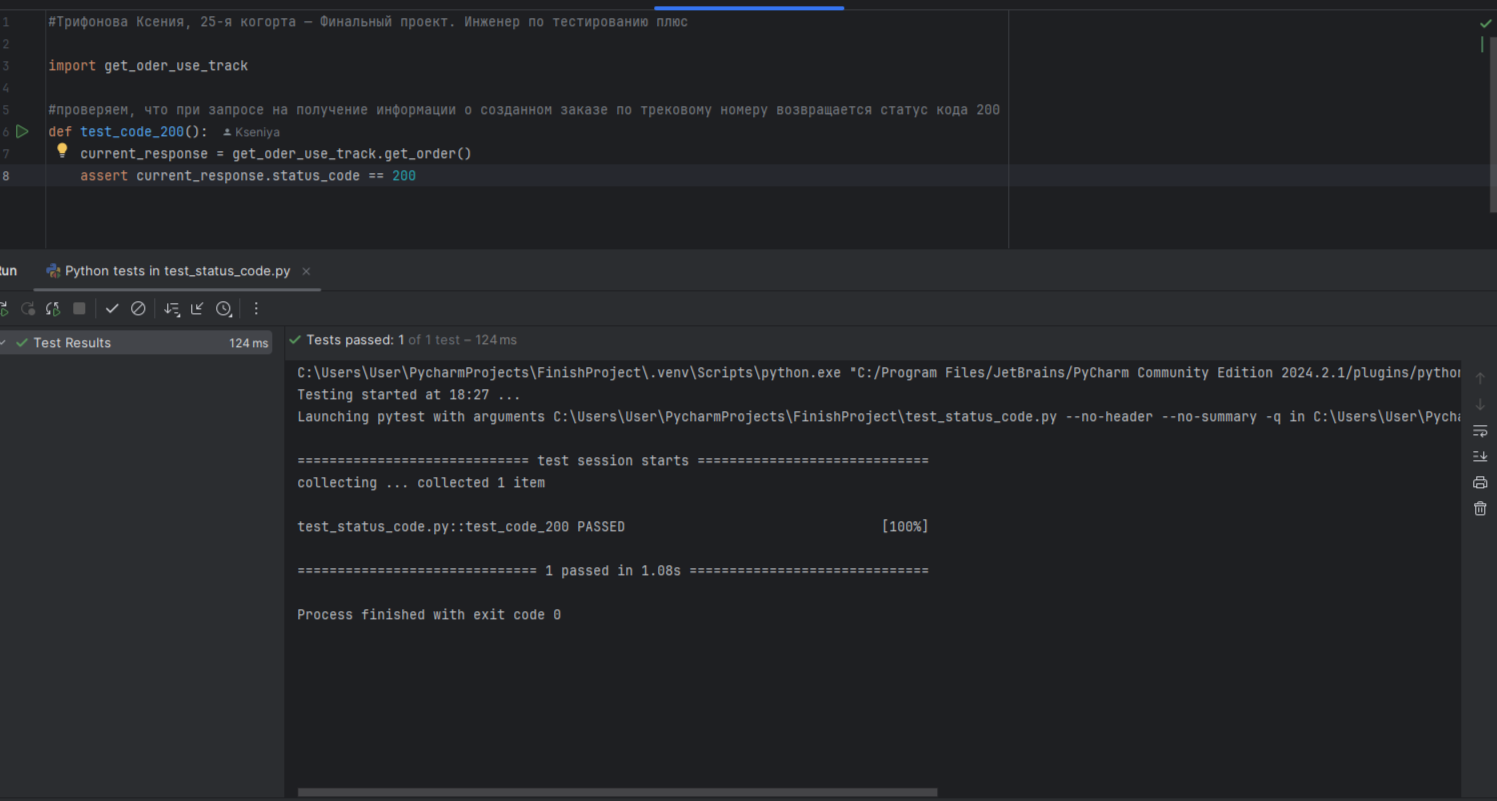
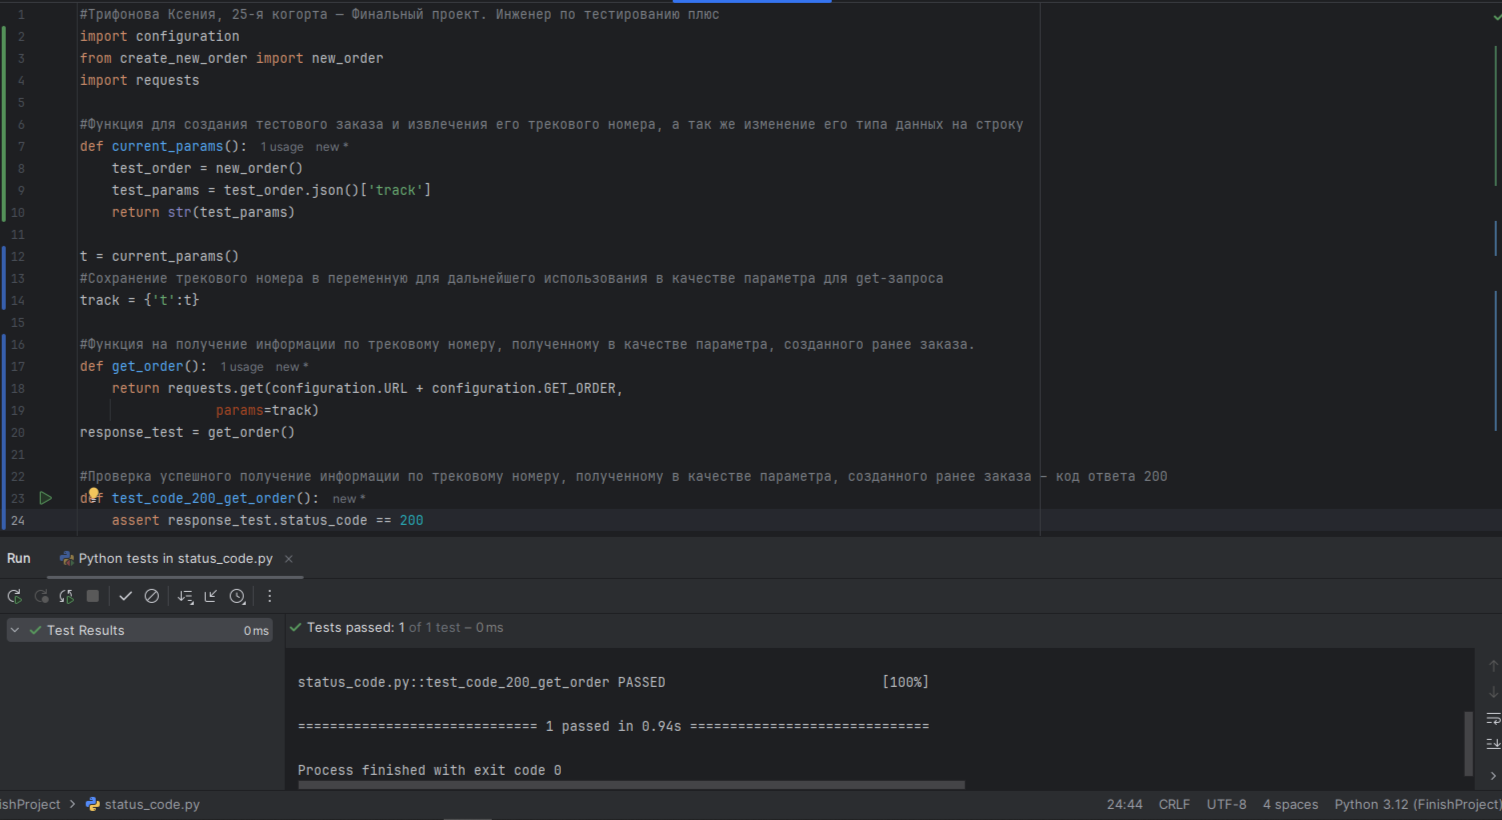
Внесены изменения согласно комментариям ревьюера

diff --git a/status_code.py b/status_code.py
@@ -1,0 +1,24 @@
+#Трифонова Ксения, 25-я когорта — Финальный проект. Инженер по тестированию плюс
+import configuration
+from create_new_order import new_order
+import requests
+
+#Функция для создания тестового заказа и извлечения его трекового номера, а так же изменение его типа данных на строку
+def current_params():
+    test_order = new_order()
+    test_params = test_order.json()['track']
+    return str(test_params)
+
+t = current_params()
+#Сохранение трекового номера в переменную для дальнейшего использования в качестве параметра для get-запроса
+track = {'t':t}
+
+#Функция на получение информации по трековому номеру, полученному в качестве параметра, созданного ранее заказа.
+def get_order():
+    return requests.get(configuration.URL + configuration.GET_ORDER,
+                 params=track)
+response_test = get_order()
+
+#Проверка успешного получение информации по трековому номеру, полученному в качестве параметра, созданного ранее заказа – код ответа 200
+def test_code_200_get_order():
+    assert response_test.status_code == 200

diff --git a/get_order_use_track.py b/get_order_use_track.py
@@ -1,0 +1,15 @@
+import requests
+import configuration
+
+#Переменная хранит параметр для get-запроса с трековым номером заказа. Можно подставить любой номер заказа, информацию по которому хотите получить
+params = {
+    't': '821695'
+}
+#функция для запроса на получение данных заказа по трековому номеру любого созданного заказа (номера из переменной params)
+def check_order():
+    response = requests.get(configuration.URL+configuration.GET_ORDER,
+                        params=params)
+    return response
+
+#снять комментирование строки ниже для вывода результатов функции
+#print(check_order().status_code, check_order().json())

diff --git a/create_new_order.py b/create_new_order.py
@@ -6,10 +6,8 @@ import configuration
 def new_order():
     return requests.post(configuration.URL + configuration.NEW_ORDER,
                          json=data.body_order)
+
 response_new_order = new_order()
 
 #снять комментирование строки ниже для вывода результатов функции
-#print(response_order.status_code, response_order.json())
-
-#в переменную track сохраняется номер трека созданного заказа
-track = response_new_order.json()['track']
+#print(response_new_order.status_code, response_new_order.json())

diff --git a/configuration.py b/configuration.py
@@ -1,9 +1,9 @@
 #URL для API запросов
-URL = 'https://2225dd14-c14d-4345-b2a4-baf35ea1de01.serverhub.praktikum-services.ru'
+URL = 'https://566ad850-b643-4446-bae6-2024848738ce.serverhub.praktikum-services.ru'
 
 #ручка для запроса на создание нового заказа
 NEW_ORDER = '/api/v1/orders'
 
 #ручка для запроса на получение заказа по его номеру(треку)
-GET_ORDER = '/api/v1/orders/track?t='
+GET_ORDER = '/api/v1/orders/track'
 

diff --git a/README.md b/README.md
@@ -1,7 +1,8 @@
 # Вторая практическая часть дипломного проекта на Яндекс.Практикум
 Содержит три задания: два SQL-запроса для проверки базы данных и одно на создание автотеста для проверки успешного получения данных о заказе по трековому номеру
 - Для запуска тестов должны быть установлены пакеты pytest и requests
-- Необходимо подключиться к серверу приложения и ввести актуальный URL в файл configuration.py в переменную URL 
+- Необходимо подключиться к серверу приложения и ввести актуальный URL в файл configuration.py в переменную URL
+- При отправке get-запроса в модуле get_order_use_track на получение информации о заказе, необходимо ввести интересующий трековый номер в переменную params
 - Запуск всех тестов выполняется командой pytest
 - SQL-запросы находятся в одноименной папке
-- Скриншот результата теста находится в файле Screenshot.png
+- Скриншот результата теста находится в файле screenshot.png
